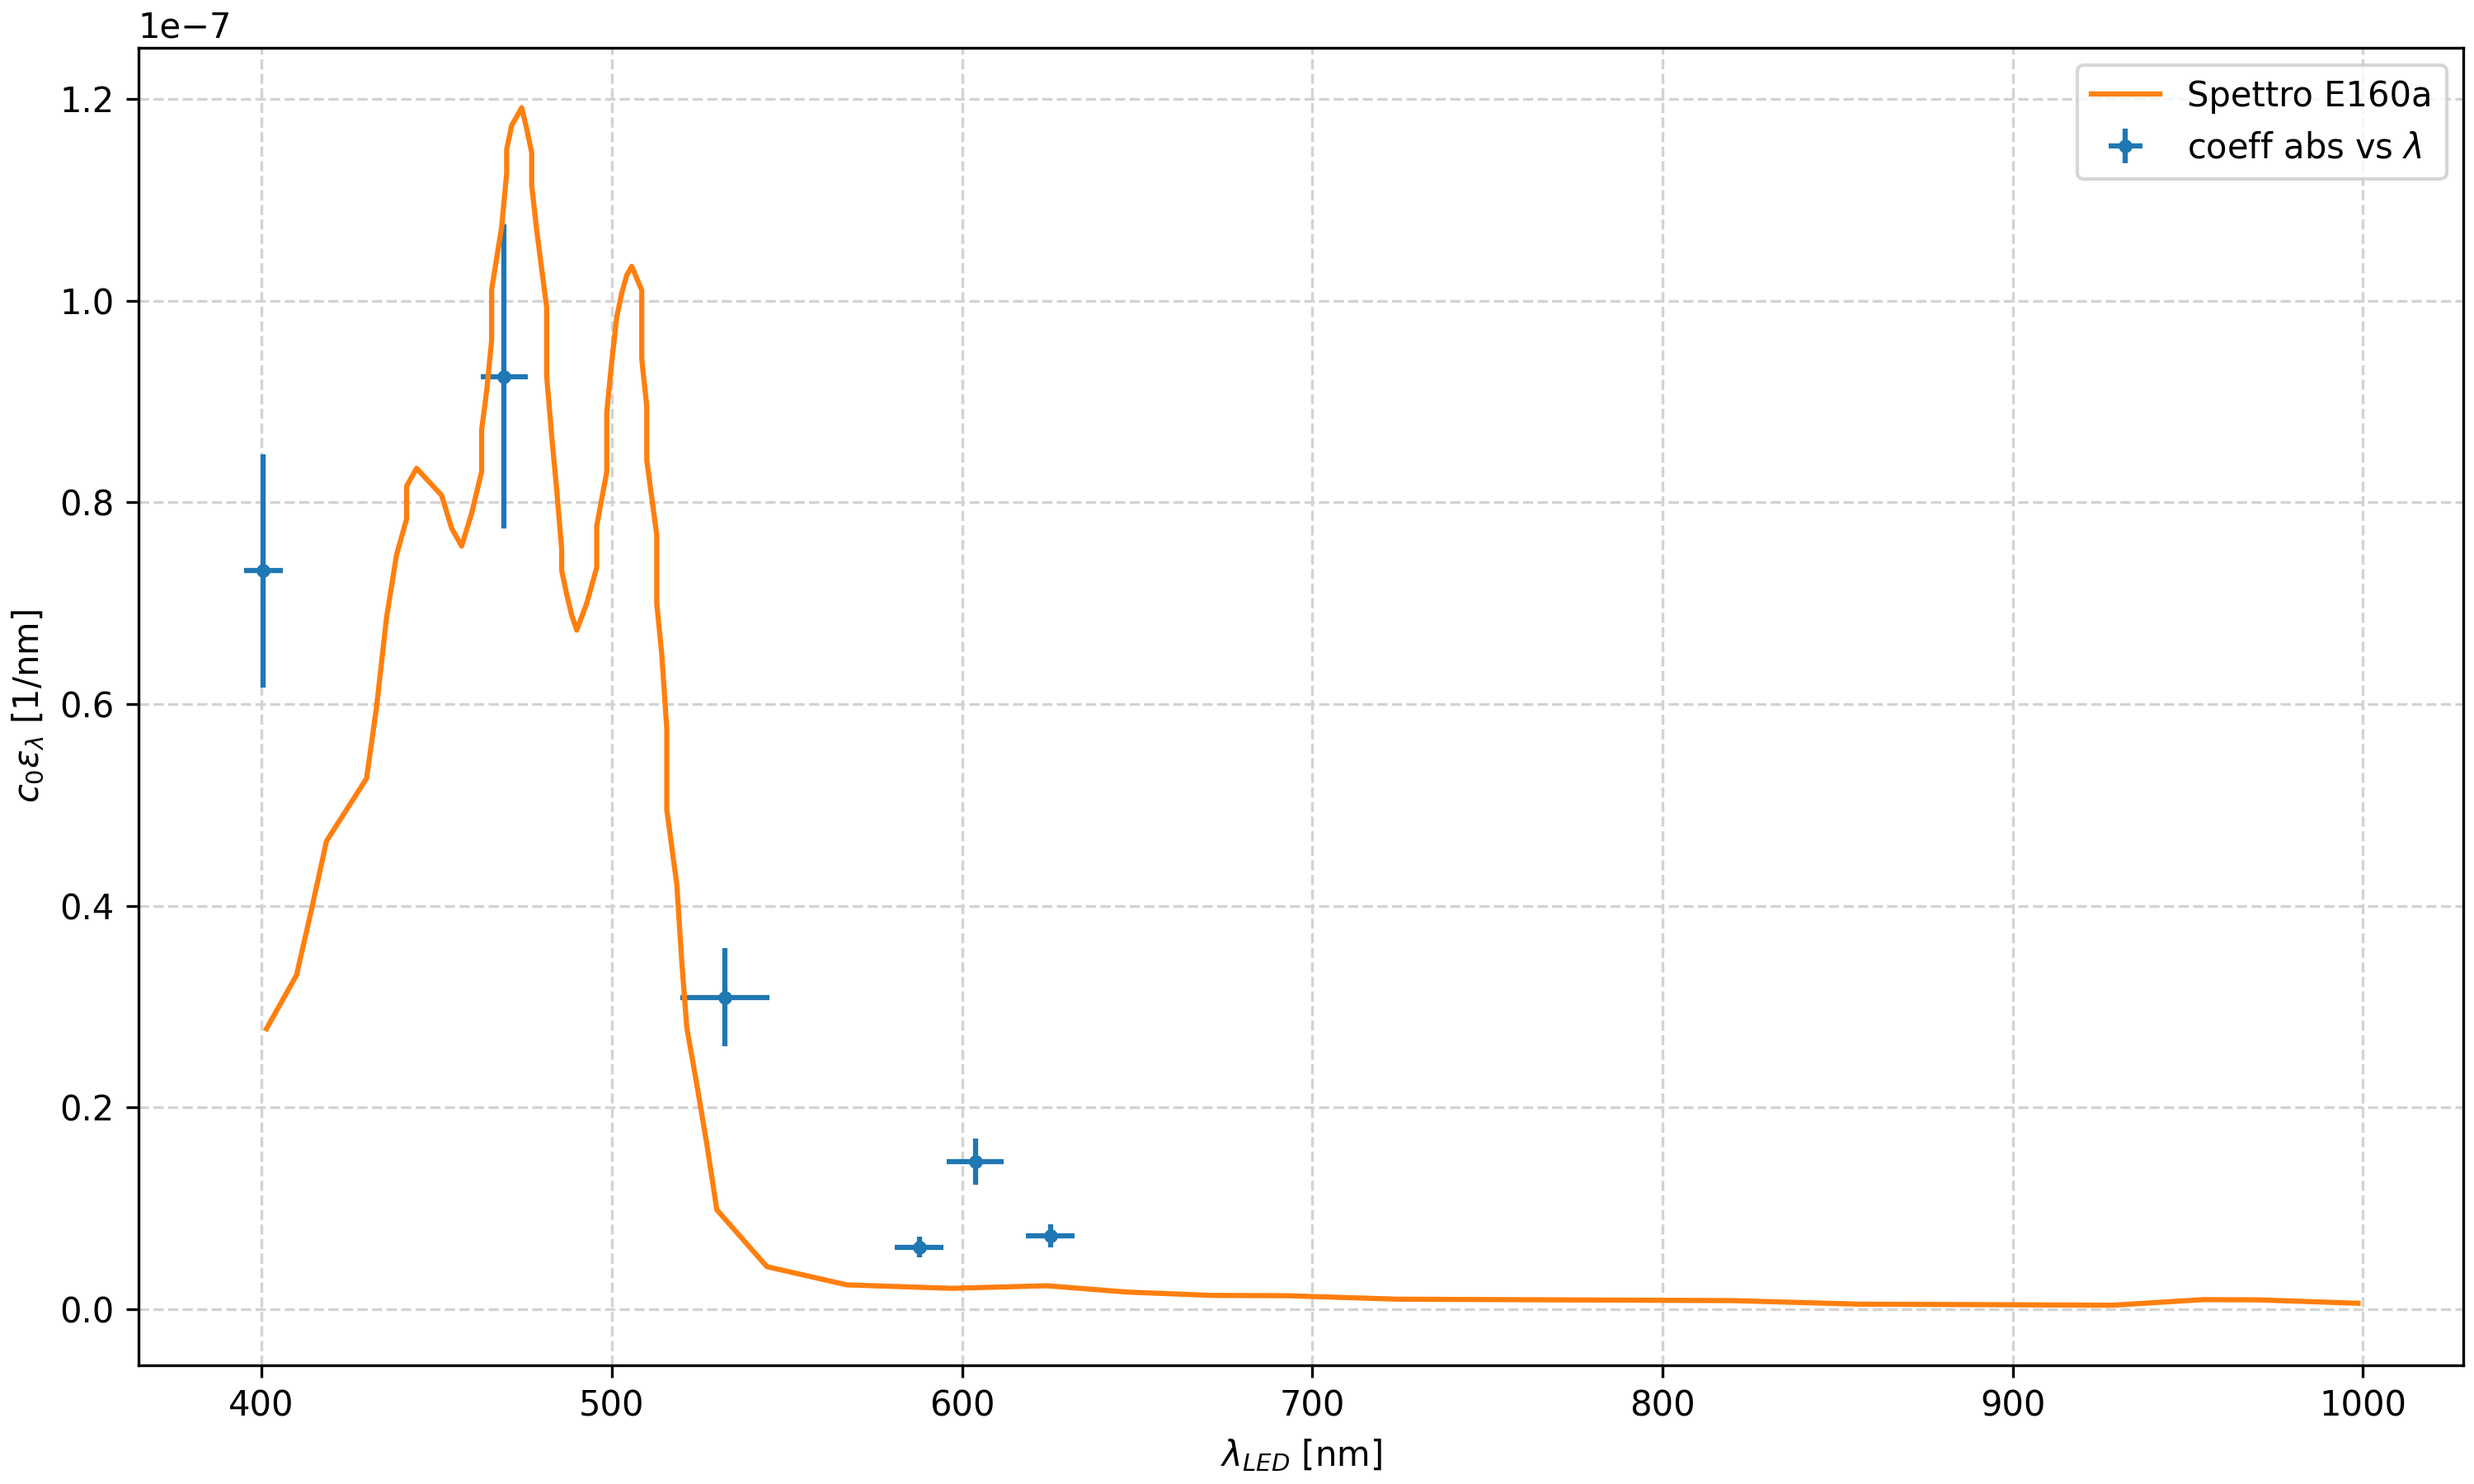
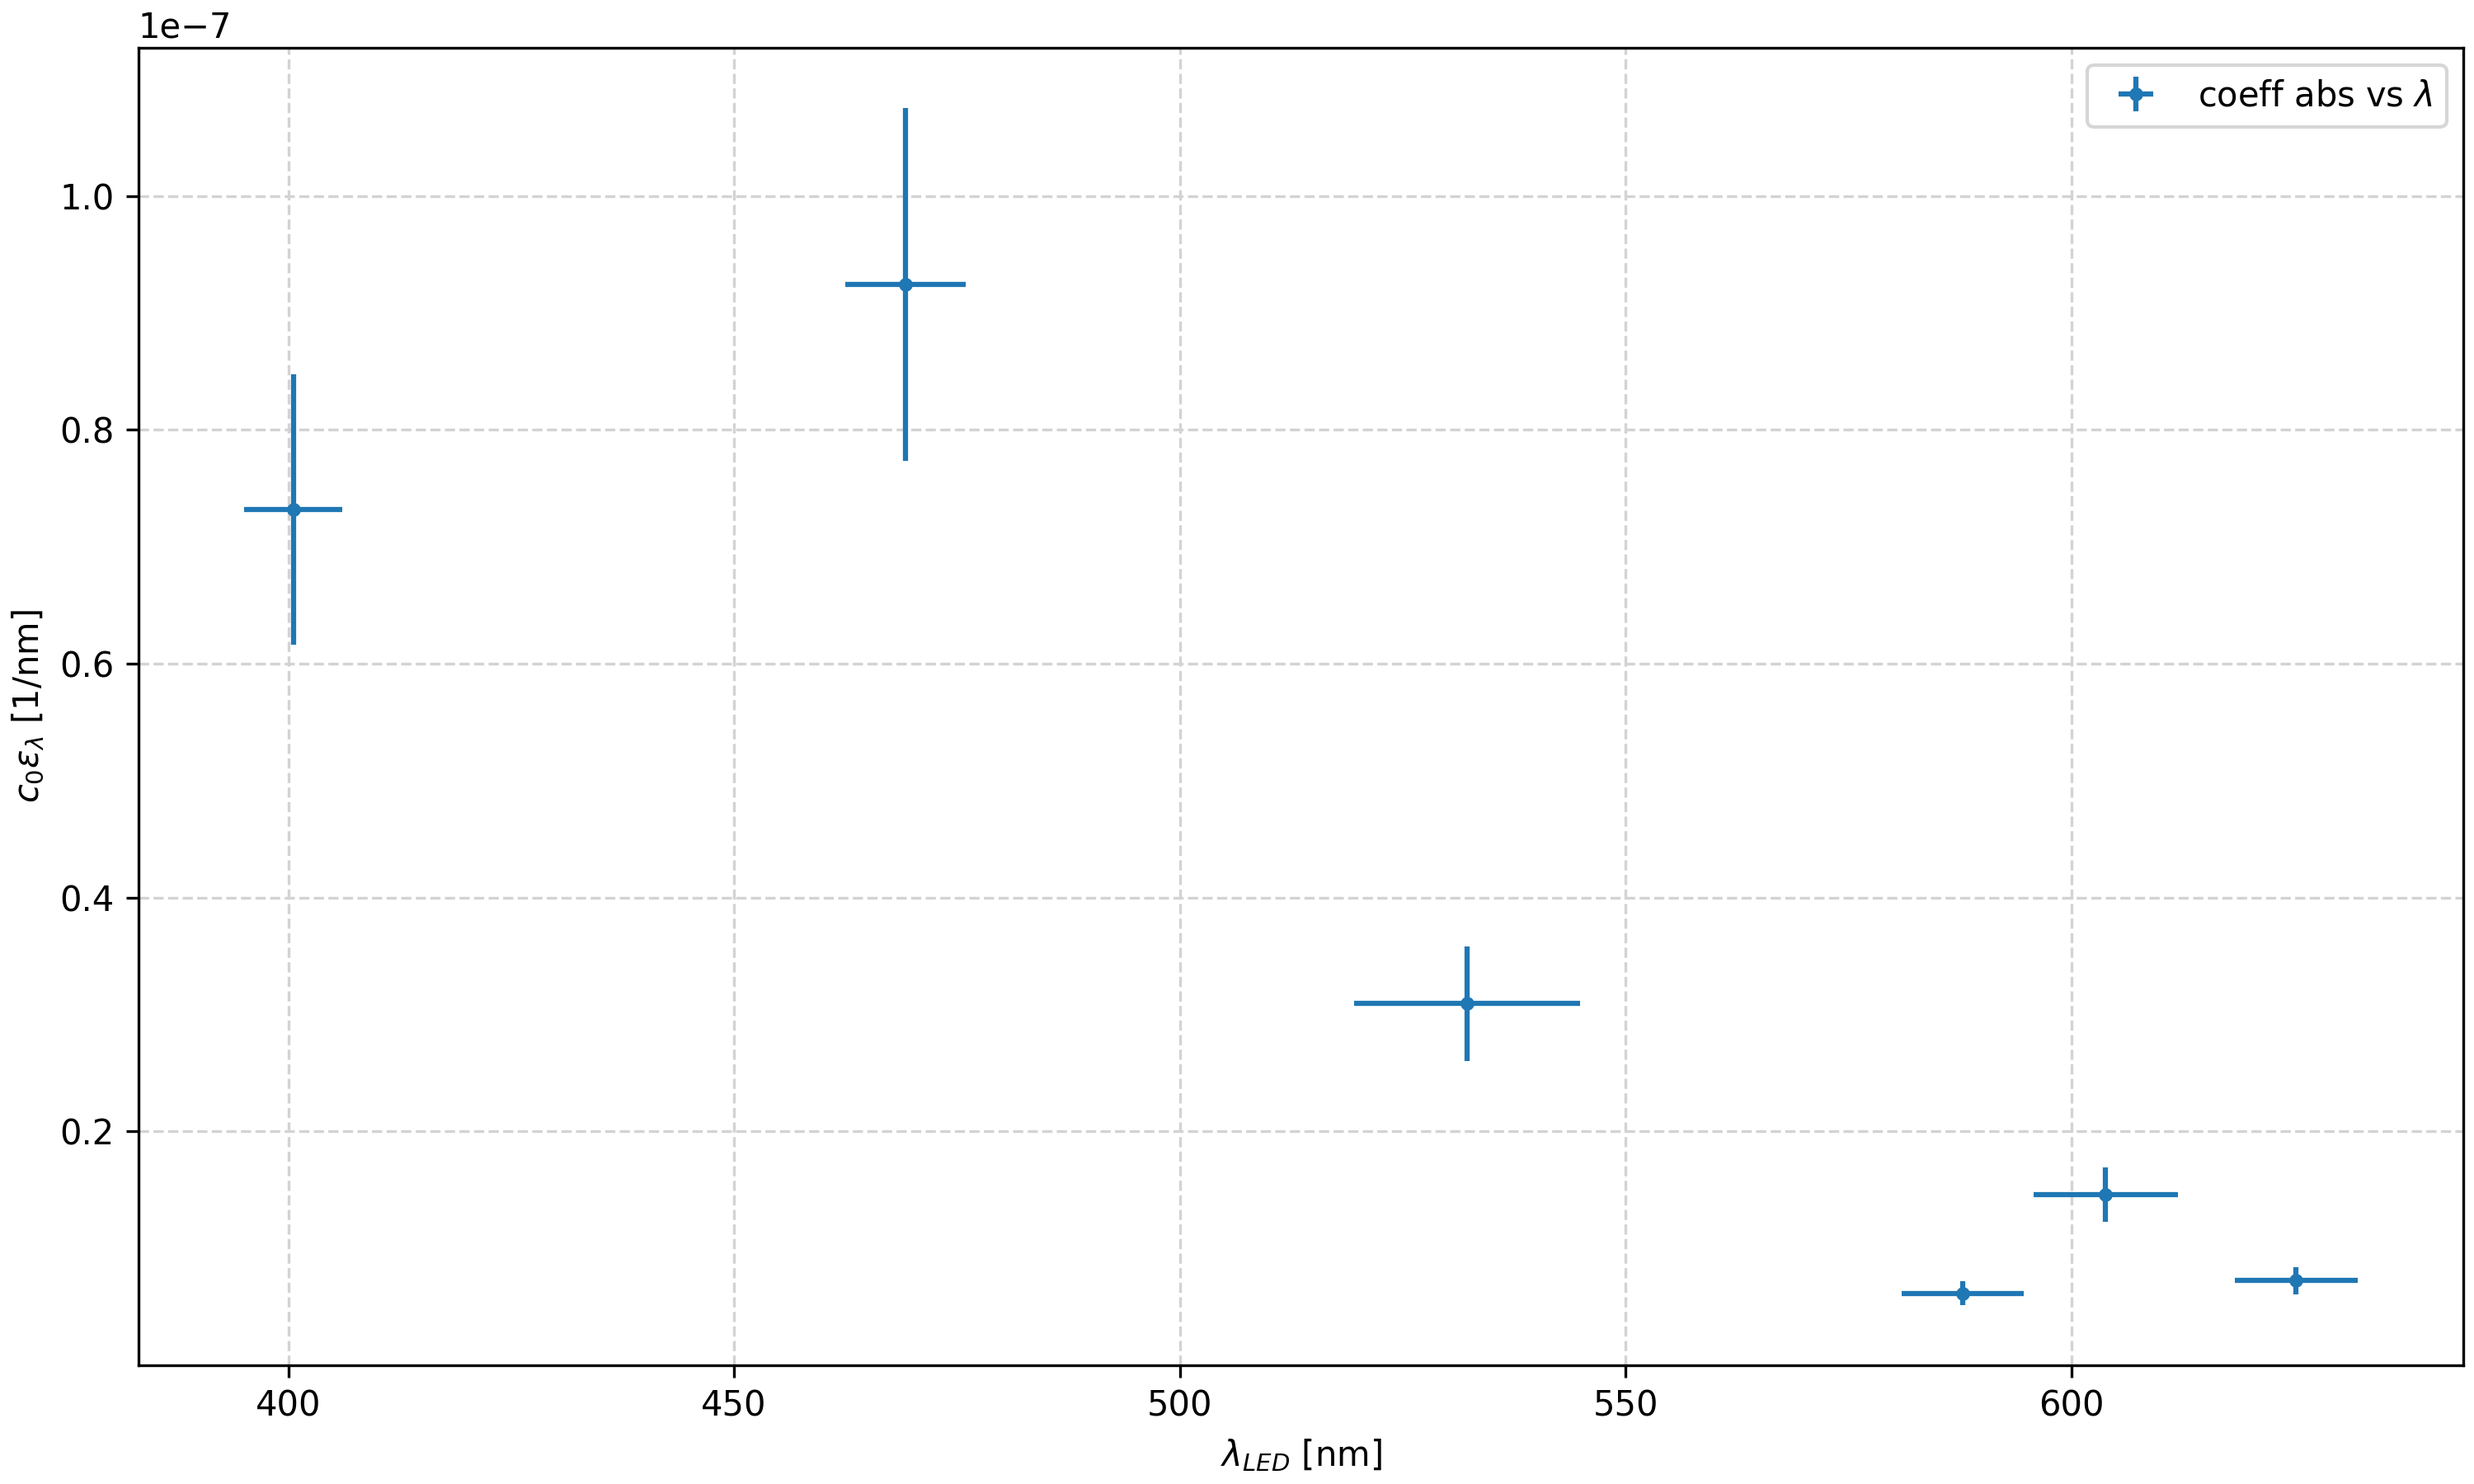
logbook es_07 v. 2.1

diff --git a/analisi_dati_es_07.py b/analisi_dati_es_07.py
@@ -152,7 +152,7 @@ Matrix = np.column_stack((L, s_L, co_abs, s_co_abs))
 fig1, ax3 = plt.subplots(1,1, figsize=(10,6), dpi=100, layout='constrained')
 
 ax3.errorbar(L, co_abs*1e-9, yerr = s_co_abs*1e-9, xerr=s_L, fmt='.', label='coeff abs vs $\lambda$')
-ax3.plot(x, abs*1e-7, linestyle='-', label='Spettro E160a')
+#ax3.plot(x, abs*1e-7, linestyle='-', label='Spettro E160a')
 ax3.set_xlabel('$\lambda_{LED}$ [nm]')
 ax3.set_ylabel('$c_0 \epsilon_{\lambda}$ [1/nm]')
 ax3.legend()
@@ -166,16 +166,16 @@ if savefig:
                header="#L[nm]  #s_L[nm]  #co_abs[1/m]  #s_co_abs[1/m]")
 
     plt.savefig('/home/marco/Desktop/Uni_anno3/TD/Es_07/logbook/plot_coeffasb_vs_lambda.png', dpi=300)
-    plt.savefig('/home/marco/Desktop/Uni_anno3/TD/Es_07/logbook/SpettroAssorbimento.pdf', dpi=300)
-
+    #plt.savefig('/home/marco/Desktop/Uni_anno3/TD/Es_07/logbook/SpettroAssorbimento.pdf', dpi=300)
+    '''
     ax3.set_xlabel('$\lambda_{LED}$ [nm]', fontsize='18')
     ax3.set_ylabel('$c_0 \epsilon_{\lambda}$ [1/nm]', fontsize='18')
     ax3.tick_params(axis='x', labelsize=16)
     ax3.tick_params(axis='y', labelsize=16)
     ax3.legend(fontsize='16')
 
-    plt.savefig('/home/marco/Desktop/Uni_anno3/TD/Es_07/presentazione/plot_coeffasb_vs_lambda_1.png', dpi=300)
-
+    plt.savefig('/home/marco/Desktop/Uni_anno3/TD/Es_07/presentazione/plot_coeffasb_vs_lambda1.png', dpi=300)
+    '''
 
 
 plt.show()
